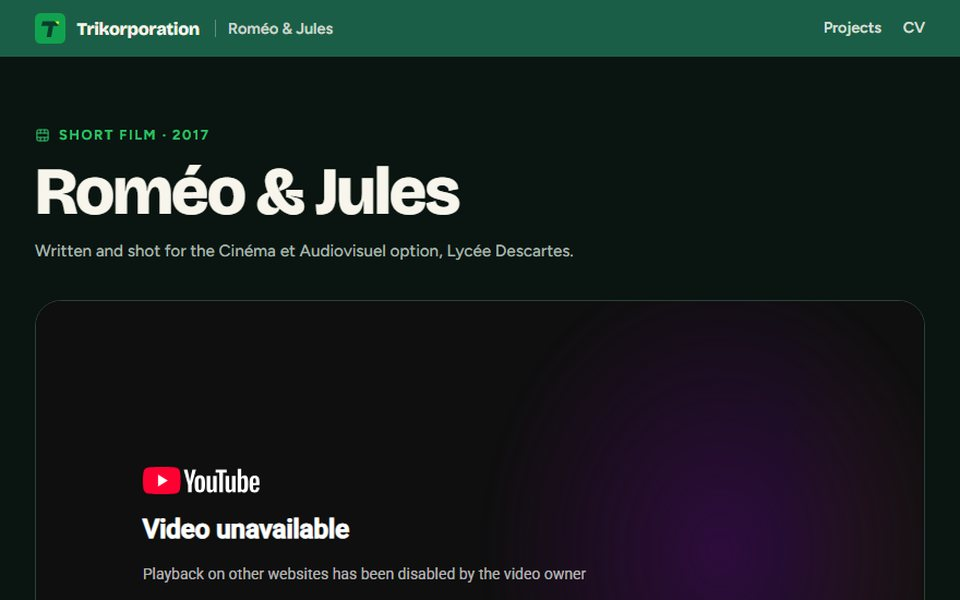
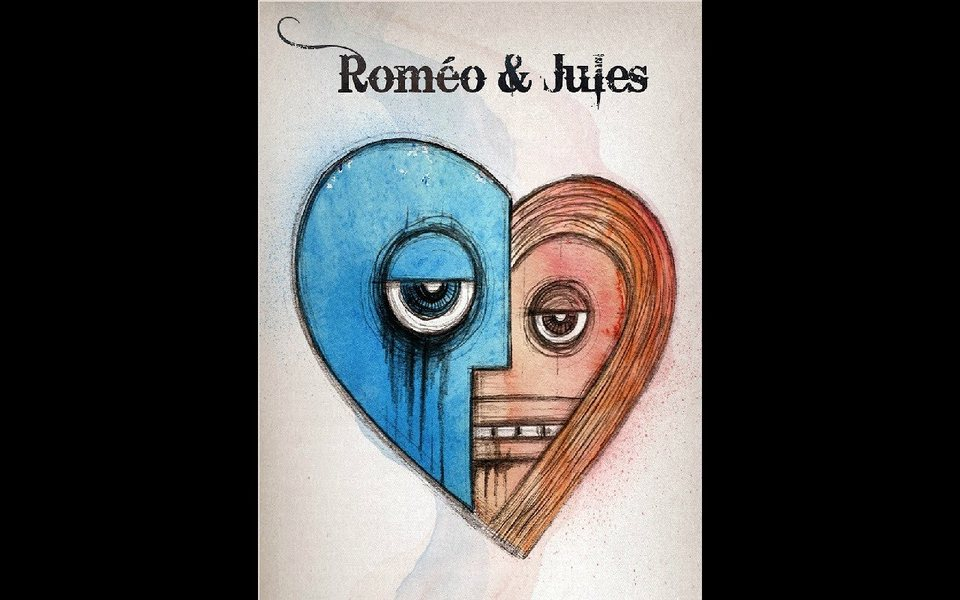
Home: big category panels with project dialogs; renamed categories; Romeo links to YouTube

diff --git a/index.html b/index.html
@@ -150,6 +150,29 @@
   h2 { font-size: clamp(2rem, 5vw, 3rem); letter-spacing: -0.02em; line-height: 1.05; margin-bottom: var(--space-6); }
   .showcase-head { display: flex; align-items: flex-end; justify-content: space-between; gap: var(--space-4); }
   .showcase-head h2 { margin-bottom: var(--space-6); }
+  .panels { display: grid; gap: var(--space-6); grid-template-columns: repeat(2, 1fr); }
+  @media (max-width: 40rem) { .panels { grid-template-columns: 1fr; } }
+  .panel { font: inherit; text-align: left; border: 0; cursor: pointer; display: flex; flex-direction: column; justify-content: flex-end; gap: var(--space-2); min-height: clamp(13rem, 24vw, 18rem); padding: clamp(1.25rem, 3vw, 2rem); border-radius: var(--radius-lg); position: relative; overflow: hidden; transition: translate .25s cubic-bezier(.2,.9,.2,1); }
+  .panel:hover { translate: 0 -6px; }
+  .panel:focus-visible { outline: 3px solid var(--lime); outline-offset: 3px; }
+  .panel .pn { font-family: var(--font-display); font-weight: 800; letter-spacing: -.035em; line-height: .95; font-size: clamp(2.4rem, 6.5vw, 4.6rem); }
+  .panel .pt { font-size: 1.05rem; opacity: .85; max-width: 24rem; }
+  .panel .pc { display: inline-flex; align-items: center; gap: .5rem; margin-top: var(--space-3); font-weight: 700; font-size: .9rem; }
+  .panel .pc svg { width: 1.2rem; height: 1.2rem; transition: translate .2s ease; }
+  .panel:hover .pc svg { translate: 6px 0; }
+  .tone-forest { background: var(--forest); color: var(--on-forest); }
+  .tone-brand { background: var(--brand); color: var(--on-brand); }
+  .tone-lime { background: var(--lime); color: #0B3D2E; }
+  .tone-paper { background: var(--surface-200); color: var(--ink); }
+  .cat-dialog { width: min(72rem, 94vw); max-height: 90vh; padding: 0; border: 0; border-radius: var(--radius-lg); background: var(--surface-100); color: var(--ink); overflow: auto; }
+  .cat-dialog::backdrop { background: rgba(5, 12, 9, .78); }
+  .dlg-in { padding: clamp(1.25rem, 3vw, 2.5rem); }
+  .dlg-head { display: flex; justify-content: space-between; align-items: flex-start; gap: var(--space-4); margin-bottom: var(--space-6); }
+  .dlg-head h3 { font-family: var(--font-display); font-weight: 800; letter-spacing: -.03em; line-height: 1; font-size: clamp(2.2rem, 6vw, 4rem); margin: 0 0 var(--space-2); }
+  .dlg-head p { margin: 0; color: var(--ink-muted); font-size: 1.05rem; }
+  .dlg-x { font: inherit; font-weight: 700; padding: .55rem 1.2rem; border-radius: var(--radius-pill); border: 1px solid var(--hairline); background: transparent; color: var(--ink); cursor: pointer; }
+  .dlg-x:hover { background: var(--forest); color: var(--on-forest); border-color: var(--forest); }
+  .cat-dialog .cards .slide.slide { opacity: 1; translate: 0 0; }
   .cat-block { padding-block: clamp(1.5rem, 4vw, 2.5rem); border-top: 1px solid var(--hairline); }
   .cat-head { display: flex; align-items: baseline; justify-content: space-between; flex-wrap: wrap; gap: var(--space-2) var(--space-6); margin-bottom: var(--space-6); }
   .cat-head h3 { font-family: var(--font-display); font-weight: 800; letter-spacing: -.03em; line-height: 1; font-size: clamp(2.2rem, 6vw, 4rem); margin: 0; }
@@ -315,94 +338,154 @@
           <h2 class="rv" id="ph">What I&rsquo;ve built</h2>
         </div>
       </div>
-      <div class="wrap cat-block">
-        <header class="cat-head rv"><h3>Trikinema</h3><p>Movies, ratings, and one short film.</p></header>
-        <div class="cards">
-          <a class="slide" href="https://scatterboxd.odtriki.com" target="_blank" rel="noopener">
-            <div class="shot"><img src="img/projects/scatterboxd.jpg" alt="Preview of Scatterboxd" width="960" height="600" loading="lazy" draggable="false"><span class="go"><svg viewBox="0 0 20 20" aria-hidden="true"><path d="M5 15L15 5M7 5h8v8" fill="none" stroke="currentColor" stroke-width="2" stroke-linecap="round" stroke-linejoin="round"/></svg></span></div>
-            <div class="sbody"><h3>Scatterboxd</h3><p>Visualize how your Letterboxd ratings compare to the crowd’s, one scatter plot at a time.</p></div>
-          </a>
-          <a class="slide" href="https://compare.odtriki.com" target="_blank" rel="noopener">
-            <div class="shot"><img src="img/projects/compare.jpg" alt="Preview of Letterboxd Compare" width="960" height="600" loading="lazy" draggable="false"><span class="go"><svg viewBox="0 0 20 20" aria-hidden="true"><path d="M5 15L15 5M7 5h8v8" fill="none" stroke="currentColor" stroke-width="2" stroke-linecap="round" stroke-linejoin="round"/></svg></span></div>
-            <div class="sbody"><h3>Letterboxd Compare</h3><p>Find the movies you and a friend both watched or have on your watchlists, and see how your ratings stack up.</p></div>
-          </a>
-          <a class="slide" href="https://streaming.odtriki.com" target="_blank" rel="noopener">
-            <div class="shot"><img src="img/projects/streaming.jpg" alt="Preview of Streaming Checker" width="960" height="600" loading="lazy" draggable="false"><span class="go"><svg viewBox="0 0 20 20" aria-hidden="true"><path d="M5 15L15 5M7 5h8v8" fill="none" stroke="currentColor" stroke-width="2" stroke-linecap="round" stroke-linejoin="round"/></svg></span></div>
-            <div class="sbody"><h3>Streaming Checker</h3><p>Check which streaming service actually has the film you’re trying to watch.</p></div>
-          </a>
-          <a class="slide" href="https://romeoetjules.odtriki.com" target="_blank" rel="noopener">
-            <div class="shot"><img src="img/projects/romeo.jpg" alt="Preview of Roméo &amp; Jules" width="960" height="600" loading="lazy" draggable="false"><span class="go"><svg viewBox="0 0 20 20" aria-hidden="true"><path d="M5 15L15 5M7 5h8v8" fill="none" stroke="currentColor" stroke-width="2" stroke-linecap="round" stroke-linejoin="round"/></svg></span></div>
-            <div class="sbody"><h3>Roméo &amp; Jules</h3><p>A short film written and shot for the Cinéma et Audiovisuel option at Lycée Descartes.</p><span class="ptag">Best Film · Best Screenplay, 2017</span></div>
-          </a>
+      <div class="wrap">
+        <div class="panels">
+        <button type="button" class="panel tone-forest rv" data-open="trikinema" aria-haspopup="dialog">
+          <span class="pn">Trikinema</span>
+          <span class="pt">Movies, ratings, and one short film.</span>
+          <span class="pc">4 projects <svg viewBox="0 0 20 20" aria-hidden="true"><path d="M4 10h12M11 5l5 5-5 5" fill="none" stroke="currentColor" stroke-width="2" stroke-linecap="round" stroke-linejoin="round"/></svg></span>
+        </button>
+        <button type="button" class="panel tone-brand rv" data-open="trikids" aria-haspopup="dialog">
+          <span class="pn">Trikids</span>
+          <span class="pt">Classic tales for kids, told in French.</span>
+          <span class="pc">1 project <svg viewBox="0 0 20 20" aria-hidden="true"><path d="M4 10h12M11 5l5 5-5 5" fill="none" stroke="currentColor" stroke-width="2" stroke-linecap="round" stroke-linejoin="round"/></svg></span>
+        </button>
+        <button type="button" class="panel tone-lime rv" data-open="trikarcade" aria-haspopup="dialog">
+          <span class="pn">Trikarcade</span>
+          <span class="pt">Pixels and the chess board.</span>
+          <span class="pc">2 projects <svg viewBox="0 0 20 20" aria-hidden="true"><path d="M4 10h12M11 5l5 5-5 5" fill="none" stroke="currentColor" stroke-width="2" stroke-linecap="round" stroke-linejoin="round"/></svg></span>
+        </button>
+        <button type="button" class="panel tone-paper rv" data-open="trikolitics" aria-haspopup="dialog">
+          <span class="pn">Trikolitics</span>
+          <span class="pt">Voter guides for people who want to know.</span>
+          <span class="pc">1 project <svg viewBox="0 0 20 20" aria-hidden="true"><path d="M4 10h12M11 5l5 5-5 5" fill="none" stroke="currentColor" stroke-width="2" stroke-linecap="round" stroke-linejoin="round"/></svg></span>
+        </button>
+        <button type="button" class="panel tone-forest rv" data-open="trikoyage" aria-haspopup="dialog">
+          <span class="pn">Trikoyage</span>
+          <span class="pt">Everywhere I’ve been.</span>
+          <span class="pc">1 project <svg viewBox="0 0 20 20" aria-hidden="true"><path d="M4 10h12M11 5l5 5-5 5" fill="none" stroke="currentColor" stroke-width="2" stroke-linecap="round" stroke-linejoin="round"/></svg></span>
+        </button>
+        <button type="button" class="panel tone-brand rv" data-open="trikitchen" aria-haspopup="dialog">
+          <span class="pn">Trikitchen</span>
+          <span class="pt">Recipes and TikToks.</span>
+          <span class="pc">1 project <svg viewBox="0 0 20 20" aria-hidden="true"><path d="M4 10h12M11 5l5 5-5 5" fill="none" stroke="currentColor" stroke-width="2" stroke-linecap="round" stroke-linejoin="round"/></svg></span>
+        </button>
+        <button type="button" class="panel tone-lime rv" data-open="trikivre" aria-haspopup="dialog">
+          <span class="pn">Trikivre</span>
+          <span class="pt">Where to drink a pint in Bordeaux.</span>
+          <span class="pc">1 project <svg viewBox="0 0 20 20" aria-hidden="true"><path d="M4 10h12M11 5l5 5-5 5" fill="none" stroke="currentColor" stroke-width="2" stroke-linecap="round" stroke-linejoin="round"/></svg></span>
+        </button>
+        <button type="button" class="panel tone-paper rv" data-open="trikarchive" aria-haspopup="dialog">
+          <span class="pn">Trikarchive</span>
+          <span class="pt">School projects from the early years.</span>
+          <span class="pc">1 project <svg viewBox="0 0 20 20" aria-hidden="true"><path d="M4 10h12M11 5l5 5-5 5" fill="none" stroke="currentColor" stroke-width="2" stroke-linecap="round" stroke-linejoin="round"/></svg></span>
+        </button>
         </div>
       </div>
-      <div class="wrap cat-block">
-        <header class="cat-head rv"><h3>Trikids</h3><p>Classic tales for kids, told in French.</p></header>
+    <dialog class="cat-dialog" id="trikinema" aria-labelledby="trikinema-h">
+      <div class="dlg-in">
+        <header class="dlg-head"><div><h3 id="trikinema-h">Trikinema</h3><p>Movies, ratings, and one short film.</p></div><button type="button" class="dlg-x" aria-label="Close">Close</button></header>
         <div class="cards">
-          <a class="slide" href="/trikids/">
-            <div class="shot"><img src="img/projects/trikids.jpg" alt="Preview of Trikistoires" width="960" height="600" loading="lazy" draggable="false"><span class="go"><svg viewBox="0 0 20 20" aria-hidden="true"><path d="M5 15L15 5M7 5h8v8" fill="none" stroke="currentColor" stroke-width="2" stroke-linecap="round" stroke-linejoin="round"/></svg></span></div>
-            <div class="sbody"><h3>Trikistoires</h3><p>30 fairy tales and fables as short videos, with hand-drawn illustrations and a French voice. One story, one star.</p></div>
-          </a>
+            <a class="slide" href="https://scatterboxd.odtriki.com" target="_blank" rel="noopener">
+              <div class="shot"><img src="img/projects/scatterboxd.jpg" alt="Preview of Scatterboxd" width="960" height="600" loading="lazy" draggable="false"><span class="go"><svg viewBox="0 0 20 20" aria-hidden="true"><path d="M5 15L15 5M7 5h8v8" fill="none" stroke="currentColor" stroke-width="2" stroke-linecap="round" stroke-linejoin="round"/></svg></span></div>
+              <div class="sbody"><h3>Scatterboxd</h3><p>Visualize how your Letterboxd ratings compare to the crowd’s, one scatter plot at a time.</p></div>
+            </a>
+            <a class="slide" href="https://compare.odtriki.com" target="_blank" rel="noopener">
+              <div class="shot"><img src="img/projects/compare.jpg" alt="Preview of Letterboxd Compare" width="960" height="600" loading="lazy" draggable="false"><span class="go"><svg viewBox="0 0 20 20" aria-hidden="true"><path d="M5 15L15 5M7 5h8v8" fill="none" stroke="currentColor" stroke-width="2" stroke-linecap="round" stroke-linejoin="round"/></svg></span></div>
+              <div class="sbody"><h3>Letterboxd Compare</h3><p>Find the movies you and a friend both watched or have on your watchlists, and see how your ratings stack up.</p></div>
+            </a>
+            <a class="slide" href="https://streaming.odtriki.com" target="_blank" rel="noopener">
+              <div class="shot"><img src="img/projects/streaming.jpg" alt="Preview of Streaming Checker" width="960" height="600" loading="lazy" draggable="false"><span class="go"><svg viewBox="0 0 20 20" aria-hidden="true"><path d="M5 15L15 5M7 5h8v8" fill="none" stroke="currentColor" stroke-width="2" stroke-linecap="round" stroke-linejoin="round"/></svg></span></div>
+              <div class="sbody"><h3>Streaming Checker</h3><p>Check which streaming service actually has the film you’re trying to watch.</p></div>
+            </a>
+            <a class="slide" href="https://www.youtube.com/watch?v=Fb_zsqkrkWQ" target="_blank" rel="noopener">
+              <div class="shot"><img src="img/projects/romeo.jpg" alt="Preview of Roméo &amp; Jules" width="960" height="600" loading="lazy" draggable="false"><span class="go"><svg viewBox="0 0 20 20" aria-hidden="true"><path d="M5 15L15 5M7 5h8v8" fill="none" stroke="currentColor" stroke-width="2" stroke-linecap="round" stroke-linejoin="round"/></svg></span></div>
+              <div class="sbody"><h3>Roméo &amp; Jules</h3><p>A short film written and shot for the Cinéma et Audiovisuel option at Lycée Descartes.</p><span class="ptag">Best Film · Best Screenplay, 2017</span></div>
+            </a>
         </div>
       </div>
-      <div class="wrap cat-block">
-        <header class="cat-head rv"><h3>Trikade</h3><p>Pixels and the chess board.</p></header>
+    </dialog>
+    <dialog class="cat-dialog" id="trikids" aria-labelledby="trikids-h">
+      <div class="dlg-in">
+        <header class="dlg-head"><div><h3 id="trikids-h">Trikids</h3><p>Classic tales for kids, told in French.</p></div><button type="button" class="dlg-x" aria-label="Close">Close</button></header>
         <div class="cards">
-          <a class="slide" href="https://kinoderrn.odtriki.com" target="_blank" rel="noopener">
-            <div class="shot"><img src="img/projects/kino.jpg" alt="Preview of Kino der RN" width="960" height="600" loading="lazy" draggable="false"><span class="go"><svg viewBox="0 0 20 20" aria-hidden="true"><path d="M5 15L15 5M7 5h8v8" fill="none" stroke="currentColor" stroke-width="2" stroke-linecap="round" stroke-linejoin="round"/></svg></span></div>
-            <div class="sbody"><h3>Kino der RN</h3><p>A pixel-art arcade game: pick a tweet, survive waves of right-wing troll bots replying to it. Online high-score board.</p></div>
-          </a>
-          <a class="slide" href="https://chess.odtriki.com" target="_blank" rel="noopener">
-            <div class="shot"><img src="img/projects/chess.jpg" alt="Preview of Chess" width="960" height="600" loading="lazy" draggable="false"><span class="go"><svg viewBox="0 0 20 20" aria-hidden="true"><path d="M5 15L15 5M7 5h8v8" fill="none" stroke="currentColor" stroke-width="2" stroke-linecap="round" stroke-linejoin="round"/></svg></span></div>
-            <div class="sbody"><h3>Chess</h3><p>Live chess.com stats, plus two youth championship titles from Rabat.</p></div>
-          </a>
+            <a class="slide" href="/trikids/">
+              <div class="shot"><img src="img/projects/trikids.jpg" alt="Preview of Trikistoires" width="960" height="600" loading="lazy" draggable="false"><span class="go"><svg viewBox="0 0 20 20" aria-hidden="true"><path d="M5 15L15 5M7 5h8v8" fill="none" stroke="currentColor" stroke-width="2" stroke-linecap="round" stroke-linejoin="round"/></svg></span></div>
+              <div class="sbody"><h3>Trikistoires</h3><p>30 fairy tales and fables as short videos, with hand-drawn illustrations and a French voice. One story, one star.</p></div>
+            </a>
         </div>
       </div>
-      <div class="wrap cat-block">
-        <header class="cat-head rv"><h3>Trikivote</h3><p>Voter guides for people who want to know.</p></header>
+    </dialog>
+    <dialog class="cat-dialog" id="trikarcade" aria-labelledby="trikarcade-h">
+      <div class="dlg-in">
+        <header class="dlg-head"><div><h3 id="trikarcade-h">Trikarcade</h3><p>Pixels and the chess board.</p></div><button type="button" class="dlg-x" aria-label="Close">Close</button></header>
         <div class="cards">
-          <a class="slide" href="https://legislativesmaroc2026.odtriki.com" target="_blank" rel="noopener">
-            <div class="shot"><img src="img/projects/monvote.jpg" alt="Preview of MonVote.ma" width="960" height="600" loading="lazy" draggable="false"><span class="go"><svg viewBox="0 0 20 20" aria-hidden="true"><path d="M5 15L15 5M7 5h8v8" fill="none" stroke="currentColor" stroke-width="2" stroke-linecap="round" stroke-linejoin="round"/></svg></span></div>
-            <div class="sbody"><h3>MonVote.ma</h3><p>A voter guide quiz matching your positions to Morocco’s political parties.</p></div>
-          </a>
+            <a class="slide" href="https://kinoderrn.odtriki.com" target="_blank" rel="noopener">
+              <div class="shot"><img src="img/projects/kino.jpg" alt="Preview of Kino der RN" width="960" height="600" loading="lazy" draggable="false"><span class="go"><svg viewBox="0 0 20 20" aria-hidden="true"><path d="M5 15L15 5M7 5h8v8" fill="none" stroke="currentColor" stroke-width="2" stroke-linecap="round" stroke-linejoin="round"/></svg></span></div>
+              <div class="sbody"><h3>Kino der RN</h3><p>A pixel-art arcade game: pick a tweet, survive waves of right-wing troll bots replying to it. Online high-score board.</p></div>
+            </a>
+            <a class="slide" href="https://chess.odtriki.com" target="_blank" rel="noopener">
+              <div class="shot"><img src="img/projects/chess.jpg" alt="Preview of Chess" width="960" height="600" loading="lazy" draggable="false"><span class="go"><svg viewBox="0 0 20 20" aria-hidden="true"><path d="M5 15L15 5M7 5h8v8" fill="none" stroke="currentColor" stroke-width="2" stroke-linecap="round" stroke-linejoin="round"/></svg></span></div>
+              <div class="sbody"><h3>Chess</h3><p>Live chess.com stats, plus two youth championship titles from Rabat.</p></div>
+            </a>
         </div>
       </div>
-      <div class="wrap cat-block">
-        <header class="cat-head rv"><h3>Trikitrip</h3><p>Everywhere I’ve been.</p></header>
+    </dialog>
+    <dialog class="cat-dialog" id="trikolitics" aria-labelledby="trikolitics-h">
+      <div class="dlg-in">
+        <header class="dlg-head"><div><h3 id="trikolitics-h">Trikolitics</h3><p>Voter guides for people who want to know.</p></div><button type="button" class="dlg-x" aria-label="Close">Close</button></header>
         <div class="cards">
-          <a class="slide" href="https://travel.odtriki.com" target="_blank" rel="noopener">
-            <div class="shot"><img src="img/projects/travel.jpg" alt="Preview of Travel map" width="960" height="600" loading="lazy" draggable="false"><span class="go"><svg viewBox="0 0 20 20" aria-hidden="true"><path d="M5 15L15 5M7 5h8v8" fill="none" stroke="currentColor" stroke-width="2" stroke-linecap="round" stroke-linejoin="round"/></svg></span></div>
-            <div class="sbody"><h3>Travel map</h3><p>An interactive map of every country and city I’ve traveled to.</p></div>
-          </a>
+            <a class="slide" href="https://legislativesmaroc2026.odtriki.com" target="_blank" rel="noopener">
+              <div class="shot"><img src="img/projects/monvote.jpg" alt="Preview of MonVote.ma" width="960" height="600" loading="lazy" draggable="false"><span class="go"><svg viewBox="0 0 20 20" aria-hidden="true"><path d="M5 15L15 5M7 5h8v8" fill="none" stroke="currentColor" stroke-width="2" stroke-linecap="round" stroke-linejoin="round"/></svg></span></div>
+              <div class="sbody"><h3>MonVote.ma</h3><p>A voter guide quiz matching your positions to Morocco’s political parties.</p></div>
+            </a>
         </div>
       </div>
-      <div class="wrap cat-block">
-        <header class="cat-head rv"><h3>Trikitchen</h3><p>Recipes and TikToks.</p></header>
+    </dialog>
+    <dialog class="cat-dialog" id="trikoyage" aria-labelledby="trikoyage-h">
+      <div class="dlg-in">
+        <header class="dlg-head"><div><h3 id="trikoyage-h">Trikoyage</h3><p>Everywhere I’ve been.</p></div><button type="button" class="dlg-x" aria-label="Close">Close</button></header>
         <div class="cards">
-          <a class="slide" href="https://cook.odtriki.com" target="_blank" rel="noopener">
-            <div class="shot"><img src="img/projects/cook.jpg" alt="Preview of Trikitchen" width="960" height="600" loading="lazy" draggable="false"><span class="go"><svg viewBox="0 0 20 20" aria-hidden="true"><path d="M5 15L15 5M7 5h8v8" fill="none" stroke="currentColor" stroke-width="2" stroke-linecap="round" stroke-linejoin="round"/></svg></span></div>
-            <div class="sbody"><h3>Trikitchen</h3><p>Recipes and TikToks from @trikitchen_.</p></div>
-          </a>
+            <a class="slide" href="https://travel.odtriki.com" target="_blank" rel="noopener">
+              <div class="shot"><img src="img/projects/travel.jpg" alt="Preview of Travel map" width="960" height="600" loading="lazy" draggable="false"><span class="go"><svg viewBox="0 0 20 20" aria-hidden="true"><path d="M5 15L15 5M7 5h8v8" fill="none" stroke="currentColor" stroke-width="2" stroke-linecap="round" stroke-linejoin="round"/></svg></span></div>
+              <div class="sbody"><h3>Travel map</h3><p>An interactive map of every country and city I’ve traveled to.</p></div>
+            </a>
         </div>
       </div>
-      <div class="wrap cat-block">
-        <header class="cat-head rv"><h3>Trikibar</h3><p>Where to drink a pint in Bordeaux.</p></header>
+    </dialog>
+    <dialog class="cat-dialog" id="trikitchen" aria-labelledby="trikitchen-h">
+      <div class="dlg-in">
+        <header class="dlg-head"><div><h3 id="trikitchen-h">Trikitchen</h3><p>Recipes and TikToks.</p></div><button type="button" class="dlg-x" aria-label="Close">Close</button></header>
         <div class="cards">
-          <a class="slide" href="https://beers.odtriki.com" target="_blank" rel="noopener">
-            <div class="shot"><img src="img/projects/beers.jpg" alt="Preview of Où boire une pinte" width="960" height="600" loading="lazy" draggable="false"><span class="go"><svg viewBox="0 0 20 20" aria-hidden="true"><path d="M5 15L15 5M7 5h8v8" fill="none" stroke="currentColor" stroke-width="2" stroke-linecap="round" stroke-linejoin="round"/></svg></span></div>
-            <div class="sbody"><h3>Où boire une pinte</h3><p>Crowd-sourced map of bars and clubs in Bordeaux, with prices.</p></div>
-          </a>
+            <a class="slide" href="https://cook.odtriki.com" target="_blank" rel="noopener">
+              <div class="shot"><img src="img/projects/cook.jpg" alt="Preview of Trikitchen" width="960" height="600" loading="lazy" draggable="false"><span class="go"><svg viewBox="0 0 20 20" aria-hidden="true"><path d="M5 15L15 5M7 5h8v8" fill="none" stroke="currentColor" stroke-width="2" stroke-linecap="round" stroke-linejoin="round"/></svg></span></div>
+              <div class="sbody"><h3>Trikitchen</h3><p>Recipes and TikToks from @trikitchen_.</p></div>
+            </a>
         </div>
       </div>
-      <div class="wrap cat-block">
-        <header class="cat-head rv"><h3>Trikive</h3><p>School projects from the early years.</p></header>
+    </dialog>
+    <dialog class="cat-dialog" id="trikivre" aria-labelledby="trikivre-h">
+      <div class="dlg-in">
+        <header class="dlg-head"><div><h3 id="trikivre-h">Trikivre</h3><p>Where to drink a pint in Bordeaux.</p></div><button type="button" class="dlg-x" aria-label="Close">Close</button></header>
         <div class="cards">
-          <a class="slide" href="https://archive.odtriki.com" target="_blank" rel="noopener">
-            <div class="shot"><img src="img/projects/archive.jpg" alt="Preview of Old school projects" width="960" height="600" loading="lazy" draggable="false"><span class="go"><svg viewBox="0 0 20 20" aria-hidden="true"><path d="M5 15L15 5M7 5h8v8" fill="none" stroke="currentColor" stroke-width="2" stroke-linecap="round" stroke-linejoin="round"/></svg></span></div>
-            <div class="sbody"><h3>Old school projects</h3><p>~30 coursework exercises from EPITECH’s early years: C, Assembly, Python.</p></div>
-          </a>
+            <a class="slide" href="https://beers.odtriki.com" target="_blank" rel="noopener">
+              <div class="shot"><img src="img/projects/beers.jpg" alt="Preview of Où boire une pinte" width="960" height="600" loading="lazy" draggable="false"><span class="go"><svg viewBox="0 0 20 20" aria-hidden="true"><path d="M5 15L15 5M7 5h8v8" fill="none" stroke="currentColor" stroke-width="2" stroke-linecap="round" stroke-linejoin="round"/></svg></span></div>
+              <div class="sbody"><h3>Où boire une pinte</h3><p>Crowd-sourced map of bars and clubs in Bordeaux, with prices.</p></div>
+            </a>
         </div>
       </div>
+    </dialog>
+    <dialog class="cat-dialog" id="trikarchive" aria-labelledby="trikarchive-h">
+      <div class="dlg-in">
+        <header class="dlg-head"><div><h3 id="trikarchive-h">Trikarchive</h3><p>School projects from the early years.</p></div><button type="button" class="dlg-x" aria-label="Close">Close</button></header>
+        <div class="cards">
+            <a class="slide" href="https://archive.odtriki.com" target="_blank" rel="noopener">
+              <div class="shot"><img src="img/projects/archive.jpg" alt="Preview of Old school projects" width="960" height="600" loading="lazy" draggable="false"><span class="go"><svg viewBox="0 0 20 20" aria-hidden="true"><path d="M5 15L15 5M7 5h8v8" fill="none" stroke="currentColor" stroke-width="2" stroke-linecap="round" stroke-linejoin="round"/></svg></span></div>
+              <div class="sbody"><h3>Old school projects</h3><p>~30 coursework exercises from EPITECH’s early years: C, Assembly, Python.</p></div>
+            </a>
+        </div>
+      </div>
+    </dialog>
     </section>
   </main>
 
@@ -443,14 +526,21 @@
 
   var fine = matchMedia('(hover:hover) and (pointer:fine)').matches;
 
-  // projects: staggered reveal
-  var cards = [].slice.call(d.querySelectorAll('.slide'));
-  cards.forEach(function (c, i) { c.style.setProperty('--i', i % 4); });
-  if (reduce || !('IntersectionObserver' in window)) { cards.forEach(function (c) { c.classList.add('in'); }); }
-  else {
-    var io3 = new IntersectionObserver(function (es) { es.forEach(function (x) { if (x.isIntersecting) { x.target.classList.add('in'); io3.unobserve(x.target); } }); }, { threshold: .15 });
-    cards.forEach(function (c) { io3.observe(c); });
+  // projects: category panels open a dialog with the projects
+  var dlgs = [].slice.call(d.querySelectorAll('.cat-dialog'));
+  function openCat(id, push) {
+    var dl = d.getElementById(id); if (!dl || dl.open) return;
+    if (typeof dl.showModal === 'function') dl.showModal(); else dl.setAttribute('open', '');
+    if (push) history.replaceState(null, '', '#' + id);
   }
+  function closeCat(dl) { if (dl.close) dl.close(); else dl.removeAttribute('open'); }
+  d.querySelectorAll('.panel').forEach(function (b) { b.addEventListener('click', function () { openCat(b.getAttribute('data-open'), true); }); });
+  dlgs.forEach(function (dl) {
+    dl.querySelector('.dlg-x').addEventListener('click', function () { closeCat(dl); });
+    dl.addEventListener('click', function (e) { if (e.target === dl) closeCat(dl); });
+    dl.addEventListener('close', function () { if (location.hash === '#' + dl.id) history.replaceState(null, '', location.pathname + location.search); });
+  });
+  if (location.hash.length > 1) openCat(location.hash.slice(1), false);
 
   // hero logo: follows the pointer, click to replay the assemble animation
   var logo = d.querySelector('.hero-logo');
